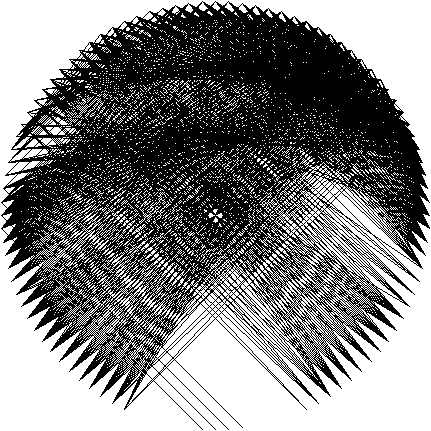
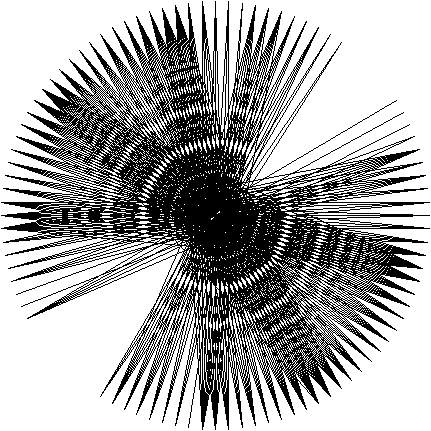
when all lines are compared with original image for cost,  every line has less and less impact and so the image turns black

diff --git a/main.py b/main.py
@@ -15,6 +15,15 @@ cropped_img = img[(int)(img.shape[0]/2 - radius/2):(int)(img.shape[0]/2 + radius
 num_pins = 100
 pins = []
 
+# the path of pins to follow to create the string art
+path = []
+
+# possible paths not done yet
+possible_paths = []
+for i in range(num_pins):
+    for j in range(num_pins):
+        possible_paths.append((i,j))
+
 # create a circle of pins around the image represented as dots
 for i in range(num_pins):
     angle = (2*np.pi/num_pins)*i
@@ -27,18 +36,28 @@ NUM_LINES = 4000
 
 line_image = np.full((radius, radius), 255, dtype=np.uint8)
 
+# choose a random pin to start the line
+start = np.random.choice(num_pins)
+path.append(start)
 for i in range(NUM_LINES):
     sys.stdout.write('\r')
-    sys.stdout.write(f'Printing image... {(int)(i/NUM_LINES*100)}%')
+    sys.stdout.write(f'Calculating Path... {(int)(i/NUM_LINES*100)}%')
     sys.stdout.flush()
-    # choose a random pin to start the line
-    start = np.random.choice(num_pins)
-    for i in range(num_pins):
-        if i is not start:
+    min_cost = sys.maxsize
+    min_index = 0
+    for j in range(num_pins):
+        if j != start and (start,j) in possible_paths:
             line_image_copy = np.copy(line_image)
-            line_image_copy = cv.line(line_image_copy, pins[start], pins[i], 0, 1)
-            cost = np.abs
- 
+            line_image_copy = cv.line(line_image_copy, pins[start], pins[j], 0, 1)
+            cost = np.sum(cv.absdiff(line_image_copy, cropped_img))/np.linalg.norm(np.array(pins[start]) - np.array(pins[j]))
+            if (cost < min_cost):
+                min_cost = cost
+                min_index = j
+    path.append(min_index)
+    possible_paths.remove((start, min_index))
+    line_image = cv.line(line_image, pins[start], pins[min_index], 0, 1)
+    start = min_index
+
 
 
 # sys.stdout.write('\r')
@@ -46,7 +65,7 @@ for i in range(NUM_LINES):
 # sys.stdout.flush()
 
 cv.imwrite("image_pins.png", pinned_image)
-cv.imwrite("final.png", final_image)
+cv.imwrite("final.png", line_image)
 
 # wait until window is closed to stop GUI
 cv.waitKey(0)
